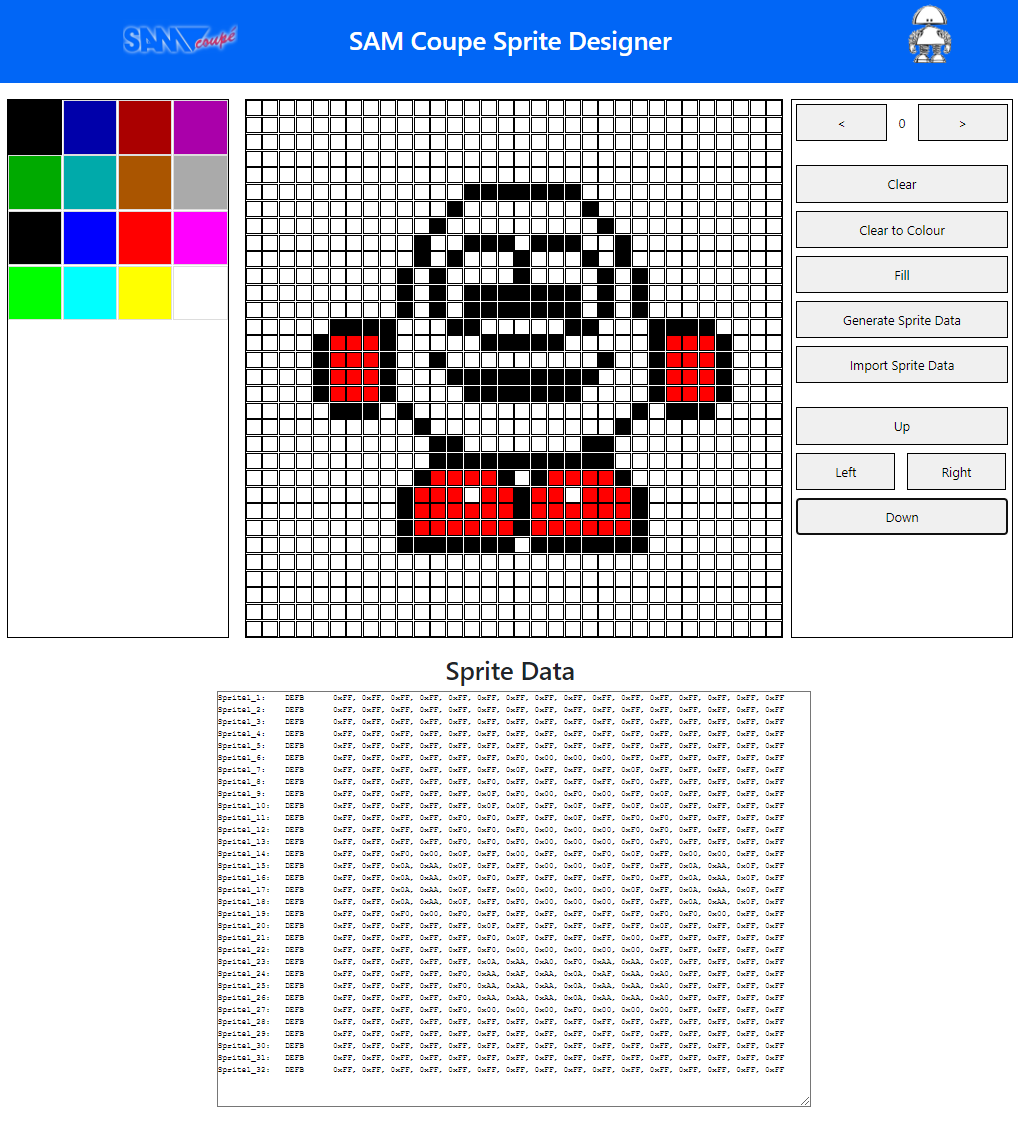
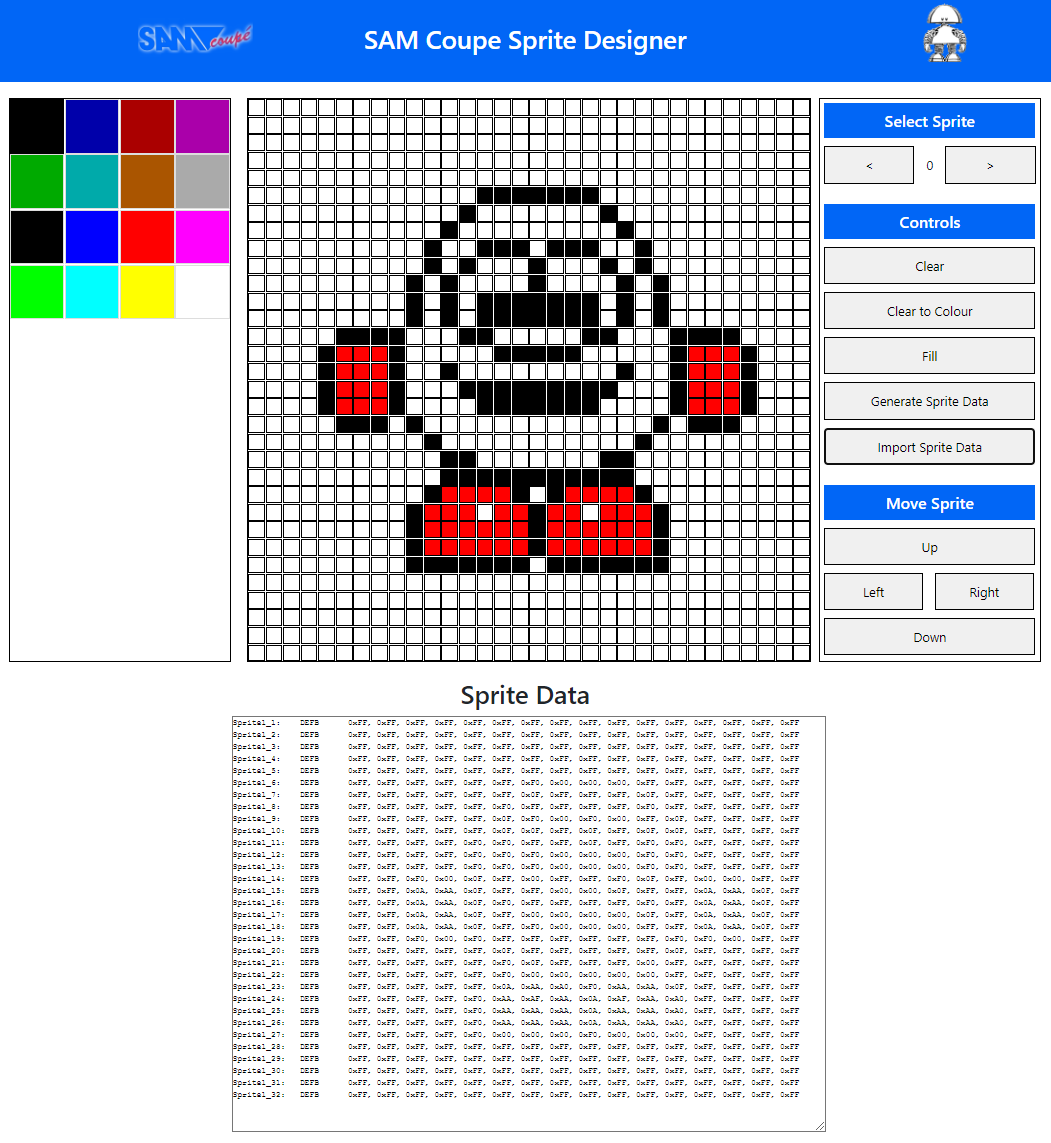
Add headings to Toolbox area

Changed region(s): [[0.0, 0.0, 1.0, 0.9982], [0.7613, 0.967, 0.7917, 0.9982], [0.0, 0.5615, 0.0305, 0.5927]]

diff --git a/index.html b/index.html
@@ -31,6 +31,7 @@
 
   <div id="main-container" class="container">
     <div class="grid-container">
+      
       <div id="color-grid">
         <!-- Color Grid will be added here by JavaScript -->
       </div>
@@ -38,11 +39,14 @@
         <!-- Main Grid will be added here by JavaScript -->
       </div>
       <div id="toolbox">
+
+        <h5 class="center-header">Select Sprite</h3>
         <div id="navButtons">
             <button id="prevButton" class="grid-nav-button">&lt;</button>
             <div id="currentGrid">0</div>
             <button id="nextButton" class="grid-nav-button">&gt;</button>
         </div>
+        <h5 class="center-header">Controls</h3>
         <div id="buttons">
             <button id="clear" class="full-width-button">Clear</button>
             <button id="clearToColour" class="full-width-button">Clear to Colour</button>
@@ -50,6 +54,7 @@
             <button id="convert" class="full-width-button">Generate Sprite Data</button>
             <button id="import" class="full-width-button">Import Sprite Data</button>
         </div>
+        <h5 class="center-header">Move Sprite</h3>
         <div id="pixelShift">
             <button id="moveUp" class="full-width-button">Up</button>
             <button id="moveLeft" class="half-width-button">Left</button>

diff --git a/styles/style.css b/styles/style.css
@@ -47,8 +47,8 @@ h1 {
 
 #grid {
 	display: grid;
-	grid-template-columns: repeat(32, 20px);
-	grid-template-rows: repeat(32, 20px);
+	grid-template-columns: repeat(32, 21px);
+	grid-template-rows: repeat(32, 21px);
 	gap: 1px;
 	border: 1px solid black;
 	margin-bottom: 20px;
@@ -145,4 +145,13 @@ a.navbar-brand img {
 .grid-nav-button {
     margin: 5px;
     width: 41%;
+}
+
+.center-header {
+	text-align: center;
+	width: 96%;
+	background-color: #0166F6;
+	color: white;
+	padding: 10px;
+	margin: 5px;
 }
